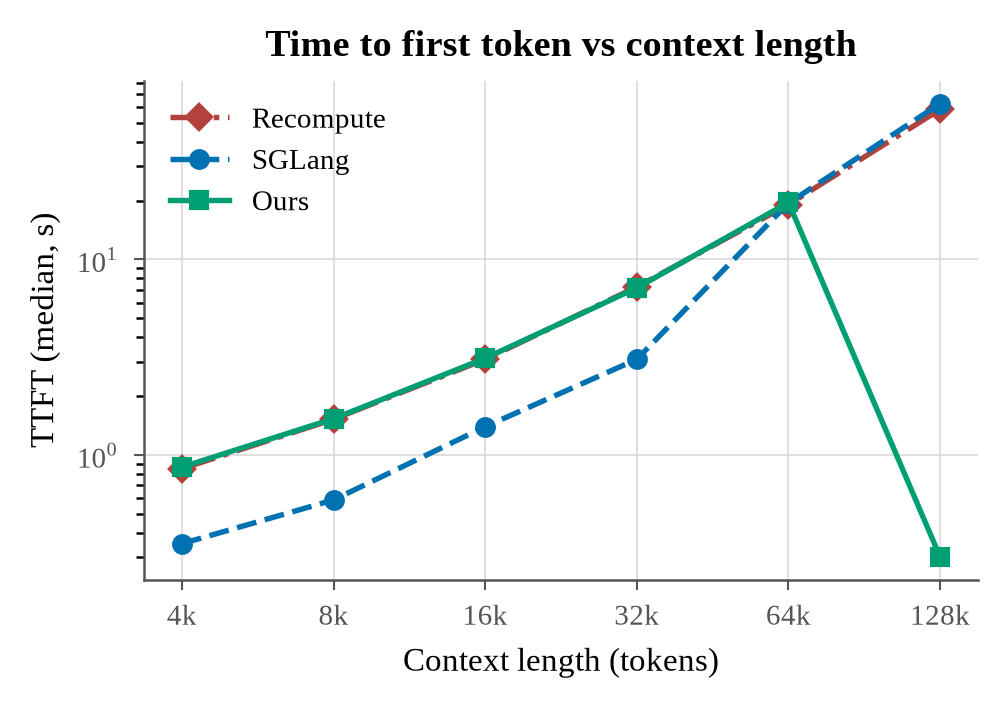
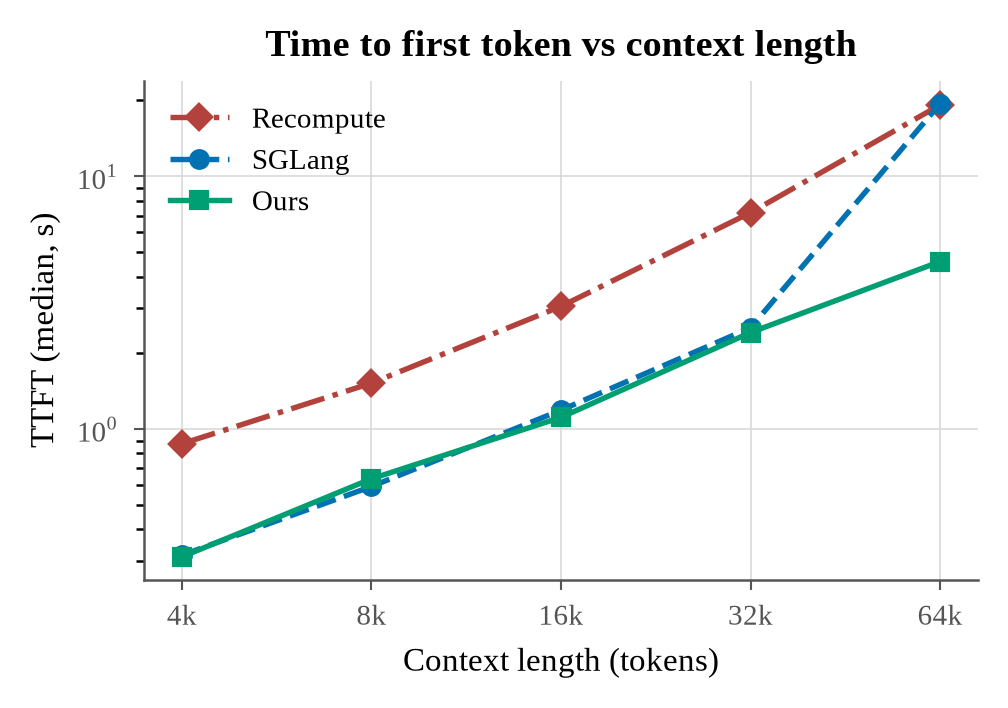
Park works at 64k: 4.17x over recompute, verified as genuine GPU restores
With the oversize-park guard (sglang side) and FLOOD_TOKENS=384 keeping the
flood out of the park ring, the park arm engages at every context length:

     L    recompute   SGLang     Ours    Ours vs recompute
  4096       0.874    0.3164   0.3117        2.80x
  8192      1.5188     0.592    0.635        2.39x
 16384      3.0583    1.1872   1.1116        2.75x
 32768       7.187    2.5155   2.4092        2.98x
 65536     19.1838   19.4079   4.6009        4.17x

The counters confirm these are real restores rather than a flood that
failed to evict:
  - park_gpu_tokens matches fetch_hits x L to 98.8-99.9% at 4k/8k/16k/64k
    (64k: 196,395 restored vs 196,608 expected for 3 reps); the shortfall
    is the part the local radix already held.
  - park_host_tokens is 0 everywhere -- every restore came from a GPU park
    pool, never host DRAM, which is the GPU-first placement claim measured
    directly rather than asserted.
  - park_fetch_miss is 822-834 against 274 flood docs x 3 reps = 822
    expected, so the short-flood design behaved exactly as intended: the
    flood evicts from the KV pool and never enters the park ring.

SGLang tracks Ours to 32k and then collapses onto recompute at 64k (19.41s
vs 19.18s). hiradix_cache.init_load_back() is all-or-nothing -- it
concatenates the whole evicted prefix and returns None if that exceeds the
memory quota ("skip loading back if the total size is too small or
[…]

diff --git a/benchmark/ttft_ctx_probe.py b/benchmark/ttft_ctx_probe.py
@@ -41,7 +41,7 @@ import requests
 
 from host_gpu_traffic_probe import (
     MODEL, MODEL_PATH, ROUTER_URL, TIMEOUT, build_doc, clear_hicache_disk_and_check_free,
-    snapshot_park,
+    snapshot_park, snapshot_hicache_tokens,
 )
 
 FLOOD_MULTIPLE = 2.0   # phase-3 flood size, x pool-tokens -- eviction only, no TTFT recorded
@@ -160,6 +160,15 @@ def main():
         # simultaneously consistent with a 17.2GB NVLink peer restore (~0.32s at 53GB/s)
         # and with no transfer at all, and nothing in the TTFT alone separates the two.
         h0, g0, hits0, miss0 = snapshot_park()
+        # Same treatment for the hicache arm. Its load-back is all-or-nothing:
+        # hiradix_cache.init_load_back() concatenates the whole evicted prefix and, if
+        # that exceeds the memory quota, returns None ("skip loading back if the total
+        # size is too small or exceeding the memory quota") -- the request then silently
+        # falls through to a full re-prefill. That predicts a TTFT indistinguishable
+        # from recompute with ZERO tokens loaded back, which is exactly what 65536
+        # looked like (19.41s vs recompute's 19.18s) while 32768 worked (2.52s vs
+        # 7.19s). Without this counter that collapse is only a hypothesis.
+        lb0 = snapshot_hicache_tokens()
 
         for rep in range(args.reps):
             tag = f"ttftL{L}_r{rep}"
@@ -206,6 +215,7 @@ def main():
                 ttfts.append(dt4)
 
         h1, g1, hits1, miss1 = snapshot_park()
+        lb1 = snapshot_hicache_tokens()
         ttfts.sort()
         n = len(ttfts)
         row = {
@@ -225,6 +235,9 @@ def main():
             "park_fetch_miss": max(0, miss1 - miss0),
             "park_host_tokens": max(0, h1 - h0),
             "park_gpu_tokens": max(0, g1 - g0),
+            # hicache arm only (sglang:load_back_tokens_total). Zero alongside a
+            # recompute-like TTFT = the all-or-nothing load-back was skipped.
+            "hicache_load_back_tokens": int(max(0.0, lb1 - lb0)),
         }
         print(f"  -> {row}")
         rows.append(row)
